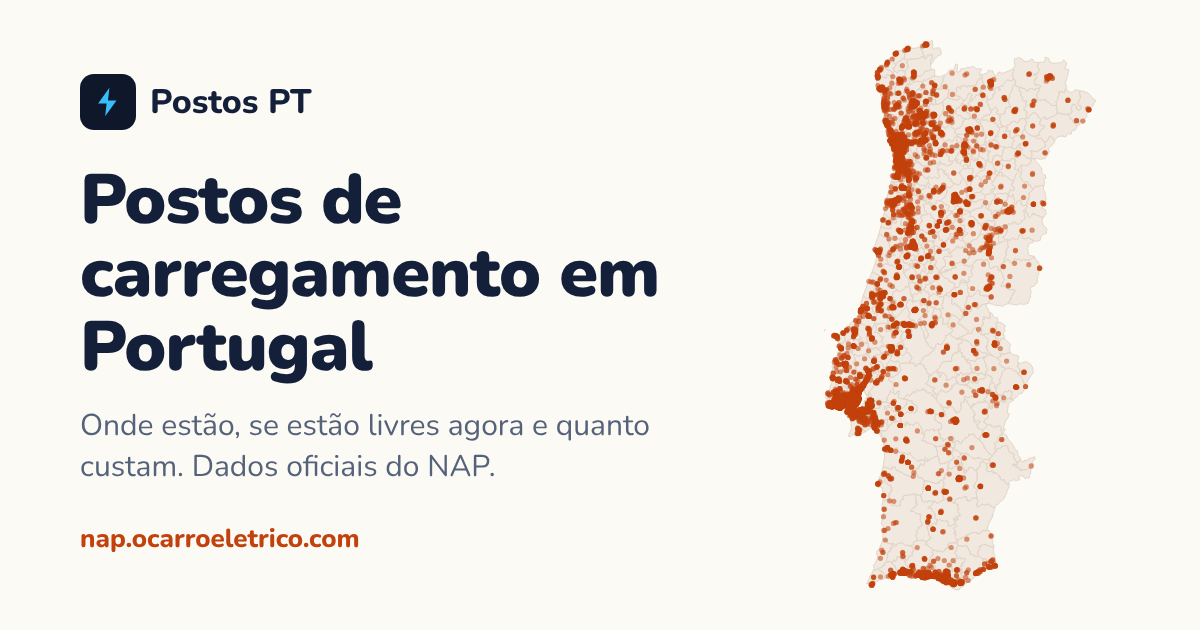
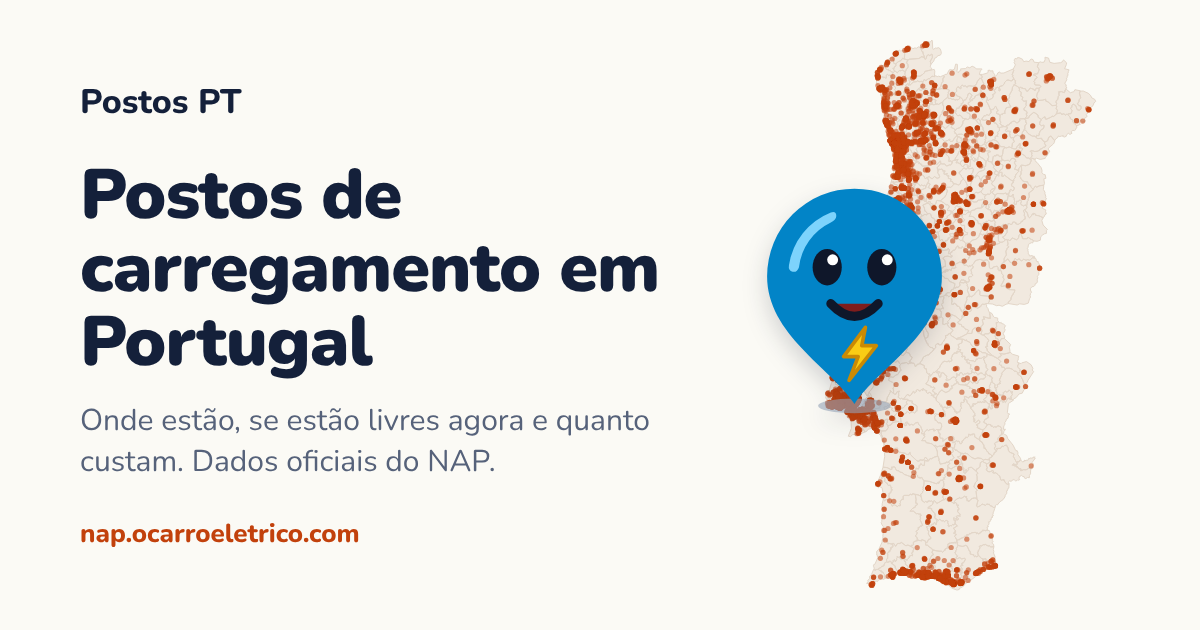
Mascote nova: um pino de mapa com cara, como os outros sites do grupo (#110)
O raio num quadrado passa a ser um pino de mapa com os olhos, o sorriso e o
raio das outras mascotes (a ficha do ohmigo, o livro da Voltaria, o carro
repórter do ocarroeletrico.com). É o favicon e o logótipo do cabeçalho; no
og.png aparece grande, a espetar Lisboa no mapa. make_og_image.py passa a
desenhar também o favicon.ico (16/32/48) e o apple-touch-icon.png.

Claude-Session: https://claude.ai/code/session_01Mo9tqL8ukWPyZY6WR6T8DR

diff --git a/site/operadores.html b/site/operadores.html
@@ -25,7 +25,7 @@
 <meta property="og:url" content="https://nap.ocarroeletrico.com/operadores.html">
 <meta property="og:locale" content="pt_PT">
 <meta property="og:locale:alternate" content="en_GB">
-<meta property="og:image" content="https://nap.ocarroeletrico.com/og.png?v=c3cc181729">
+<meta property="og:image" content="https://nap.ocarroeletrico.com/og.png?v=7980f68541">
 <meta property="og:image:type" content="image/png">
 <meta property="og:image:width" content="1200">
 <meta property="og:image:height" content="630">
@@ -33,7 +33,7 @@
 <meta name="twitter:card" content="summary_large_image">
 <meta name="twitter:title" content="Para operadores (OPC): anomalias nos dados publicados no NAP">
 <meta name="twitter:description" content="Relatório semanal de anomalias nos dados que cada operador de postos de carregamento (OPC) publica no Ponto de Acesso Nacional: potências impossíveis, moradas, tensões e erros reportáveis.">
-<meta name="twitter:image" content="https://nap.ocarroeletrico.com/og.png?v=c3cc181729">
+<meta name="twitter:image" content="https://nap.ocarroeletrico.com/og.png?v=7980f68541">
 <meta name="twitter:image:alt" content="Mapa de Portugal continental com um ponto por posto de carregamento, ao lado do título «Postos de carregamento em Portugal».">
 </head>
 <body>
@@ -41,7 +41,7 @@
 <header class="top">
   <div class="wrap">
     <a class="brand" href="index.html">
-      <svg viewBox="0 0 24 24" fill="none" stroke="currentColor" stroke-width="2.4" stroke-linecap="round" stroke-linejoin="round" aria-hidden="true"><path d="M13 2 5 13h6l-1 9 8-11h-6z"/></svg>
+      <img src="favicon.svg" alt="" width="28" height="33">
       <span>Postos PT</span>
     </a>
     <nav class="nav" aria-label="Principal">

diff --git a/site/index.html b/site/index.html
@@ -25,7 +25,7 @@
 <meta property="og:url" content="https://nap.ocarroeletrico.com/">
 <meta property="og:locale" content="pt_PT">
 <meta property="og:locale:alternate" content="en_GB">
-<meta property="og:image" content="https://nap.ocarroeletrico.com/og.png?v=c3cc181729">
+<meta property="og:image" content="https://nap.ocarroeletrico.com/og.png?v=7980f68541">
 <meta property="og:image:type" content="image/png">
 <meta property="og:image:width" content="1200">
 <meta property="og:image:height" content="630">
@@ -33,7 +33,7 @@
 <meta name="twitter:card" content="summary_large_image">
 <meta name="twitter:title" content="Postos de carregamento em Portugal: onde estão e se estão livres">
 <meta name="twitter:description" content="Procura postos de carregamento de veículos elétricos em Portugal: se estão livres agora, potência, tomadas, formas de pagamento e taxa do operador. Dados oficiais do Ponto de Acesso Nacional.">
-<meta name="twitter:image" content="https://nap.ocarroeletrico.com/og.png?v=c3cc181729">
+<meta name="twitter:image" content="https://nap.ocarroeletrico.com/og.png?v=7980f68541">
 <meta name="twitter:image:alt" content="Mapa de Portugal continental com um ponto por posto de carregamento, ao lado do título «Postos de carregamento em Portugal».">
 </head>
 <body>
@@ -41,7 +41,7 @@
 <header class="top">
   <div class="wrap">
     <a class="brand" href="index.html">
-      <svg viewBox="0 0 24 24" fill="none" stroke="currentColor" stroke-width="2.4" stroke-linecap="round" stroke-linejoin="round" aria-hidden="true"><path d="M13 2 5 13h6l-1 9 8-11h-6z"/></svg>
+      <img src="favicon.svg" alt="" width="28" height="33">
       <span>Postos PT</span>
     </a>
     <nav class="nav" aria-label="Principal">

diff --git a/site/explorar.html b/site/explorar.html
@@ -26,7 +26,7 @@
 <meta property="og:url" content="https://nap.ocarroeletrico.com/explorar.html">
 <meta property="og:locale" content="pt_PT">
 <meta property="og:locale:alternate" content="en_GB">
-<meta property="og:image" content="https://nap.ocarroeletrico.com/og.png?v=c3cc181729">
+<meta property="og:image" content="https://nap.ocarroeletrico.com/og.png?v=7980f68541">
 <meta property="og:image:type" content="image/png">
 <meta property="og:image:width" content="1200">
 <meta property="og:image:height" content="630">
@@ -34,7 +34,7 @@
 <meta name="twitter:card" content="summary_large_image">
 <meta name="twitter:title" content="Explorar a rede de carregamento em Portugal">
 <meta name="twitter:description" content="Filtra a rede pública de carregamento de veículos elétricos em Portugal por operador, concelho, potência, ficha, estado e pagamento, e vê a ocupação ao vivo e a evolução ao longo do tempo.">
-<meta name="twitter:image" content="https://nap.ocarroeletrico.com/og.png?v=c3cc181729">
+<meta name="twitter:image" content="https://nap.ocarroeletrico.com/og.png?v=7980f68541">
 <meta name="twitter:image:alt" content="Mapa de Portugal continental com um ponto por posto de carregamento, ao lado do título «Postos de carregamento em Portugal».">
 </head>
 <body>
@@ -42,7 +42,7 @@
 <header class="top">
   <div class="wrap">
     <a class="brand" href="index.html">
-      <svg viewBox="0 0 24 24" fill="none" stroke="currentColor" stroke-width="2.4" stroke-linecap="round" stroke-linejoin="round" aria-hidden="true"><path d="M13 2 5 13h6l-1 9 8-11h-6z"/></svg>
+      <img src="favicon.svg" alt="" width="28" height="33">
       <span>Postos PT</span>
     </a>
     <nav class="nav" aria-label="Principal">

diff --git a/site/rede.html b/site/rede.html
@@ -25,7 +25,7 @@
 <meta property="og:url" content="https://nap.ocarroeletrico.com/rede.html">
 <meta property="og:locale" content="pt_PT">
 <meta property="og:locale:alternate" content="en_GB">
-<meta property="og:image" content="https://nap.ocarroeletrico.com/og.png?v=c3cc181729">
+<meta property="og:image" content="https://nap.ocarroeletrico.com/og.png?v=7980f68541">
 <meta property="og:image:type" content="image/png">
 <meta property="og:image:width" content="1200">
 <meta property="og:image:height" content="630">
@@ -33,7 +33,7 @@
 <meta name="twitter:card" content="summary_large_image">
 <meta name="twitter:title" content="A rede de carregamento em Portugal, em números">
 <meta name="twitter:description" content="Estatísticas da rede pública de carregamento de veículos elétricos em Portugal: locais, tomadas, operadores, potência, ocupação, fiabilidade e o que mudou nas últimas 24 horas.">
-<meta name="twitter:image" content="https://nap.ocarroeletrico.com/og.png?v=c3cc181729">
+<meta name="twitter:image" content="https://nap.ocarroeletrico.com/og.png?v=7980f68541">
 <meta name="twitter:image:alt" content="Mapa de Portugal continental com um ponto por posto de carregamento, ao lado do título «Postos de carregamento em Portugal».">
 </head>
 <body>
@@ -41,7 +41,7 @@
 <header class="top">
   <div class="wrap">
     <a class="brand" href="index.html">
-      <svg viewBox="0 0 24 24" fill="none" stroke="currentColor" stroke-width="2.4" stroke-linecap="round" stroke-linejoin="round" aria-hidden="true"><path d="M13 2 5 13h6l-1 9 8-11h-6z"/></svg>
+      <img src="favicon.svg" alt="" width="28" height="33">
       <span>Postos PT</span>
     </a>
     <nav class="nav" aria-label="Principal">

diff --git a/assets/site/app.css b/assets/site/app.css
@@ -72,7 +72,7 @@ html[lang="pt"] [data-lang="en"], html[lang="en"] [data-lang="pt"] { display: no
 .top { position: sticky; top: 0; z-index: 30; background: var(--bg); border-bottom: 1px solid var(--line); }
 .top .wrap { display: flex; align-items: center; gap: 12px; min-height: 56px; flex-wrap: wrap; padding-block: 6px; }
 .brand { font-weight: 900; font-size: 1.1rem; color: var(--fg); text-decoration: none; margin-right: auto; display: flex; align-items: center; gap: 8px; }
-.brand svg { width: 26px; height: 26px; color: var(--ink); }
+.brand img { width: 28px; height: 33px; display: block; }
 .nav { display: flex; gap: 4px; order: 3; width: 100%; overflow-x: auto; }
 .nav a { padding: 8px 12px; border-radius: 999px; color: var(--fg); text-decoration: none; font-weight: 700; white-space: nowrap; min-height: 44px; display: inline-flex; align-items: center; }
 .nav a[aria-current="page"] { background: var(--fg); color: var(--bg); }

diff --git a/site/app.css b/site/app.css
@@ -72,7 +72,7 @@ html[lang="pt"] [data-lang="en"], html[lang="en"] [data-lang="pt"] { display: no
 .top { position: sticky; top: 0; z-index: 30; background: var(--bg); border-bottom: 1px solid var(--line); }
 .top .wrap { display: flex; align-items: center; gap: 12px; min-height: 56px; flex-wrap: wrap; padding-block: 6px; }
 .brand { font-weight: 900; font-size: 1.1rem; color: var(--fg); text-decoration: none; margin-right: auto; display: flex; align-items: center; gap: 8px; }
-.brand svg { width: 26px; height: 26px; color: var(--ink); }
+.brand img { width: 28px; height: 33px; display: block; }
 .nav { display: flex; gap: 4px; order: 3; width: 100%; overflow-x: auto; }
 .nav a { padding: 8px 12px; border-radius: 999px; color: var(--fg); text-decoration: none; font-weight: 700; white-space: nowrap; min-height: 44px; display: inline-flex; align-items: center; }
 .nav a[aria-current="page"] { background: var(--fg); color: var(--bg); }

diff --git a/assets/site/_header.html b/assets/site/_header.html
@@ -2,7 +2,7 @@
 <header class="top">
   <div class="wrap">
     <a class="brand" href="index.html">
-      <svg viewBox="0 0 24 24" fill="none" stroke="currentColor" stroke-width="2.4" stroke-linecap="round" stroke-linejoin="round" aria-hidden="true"><path d="M13 2 5 13h6l-1 9 8-11h-6z"/></svg>
+      <img src="favicon.svg" alt="" width="28" height="33">
       <span>Postos PT</span>
     </a>
     <nav class="nav" aria-label="Principal">

diff --git a/scripts/make_og_image.py b/scripts/make_og_image.py
@@ -1,6 +1,12 @@
-"""Draw the link-preview image (assets/og.png, 1200x630) from the committed site data.
+"""Draw the link-preview image (assets/og.png, 1200x630) from the committed site data,
+and the raster icons (assets/favicon.ico, assets/apple-touch-icon.png) from the mascot.
 
     python3 scripts/make_og_image.py [--chromium PATH]
+
+The mascot is assets/favicon.svg: a map pin with a face and the group's
+lightning bolt, like the other sites' (ohmigo's plug, Voltaria's book, the
+reporter car of ocarroeletrico.com). The header shows it as is; browsers that
+can't use an SVG favicon, and iPhones' home screens, get the PNG/ICO drawn here.
 
 X, WhatsApp, Facebook and LinkedIn show this image when someone shares a page
 of the site (the og:image/twitter:image tags that build_site.py writes). It is
@@ -14,6 +20,7 @@ import argparse
 import json
 import os
 import shutil
+import struct
 import subprocess
 import sys
 import tempfile
@@ -24,6 +31,7 @@ W, H = 1200, 630
 # The map's box, on the right of the card. Mainland Portugal only: the islands
 # would shrink it to nothing at this size.
 MAP = (760, 40, 400, 550)  # x, y, w, h
+MASCOT_H = 230
 
 
 def project(lon_lat, bounds, box):
@@ -46,14 +54,20 @@ def svg(outline, sites):
                    for x, y in (pr(s['lon'], s['lat']) for s in sites
                                 if s.get('region') == 'mainland' and s.get('lat') is not None
                                 and s.get('status') not in ('planned', 'removed')))
-    return (f'<svg width="{W}" height="{H}" viewBox="0 0 {W} {H}" style="position:absolute;inset:0">'
+    # The mascot is a map pin: its tip marks Lisbon. In the SVG's viewBox (24 8 212 252) the tip
+    # is at (130, 248), so at MASCOT_H px tall it sits 106/212 of the width in and 240/252 down.
+    lx, ly = pr(-9.14, 38.72)
+    mw = MASCOT_H * 212 / 252
+    pin = (f'<img src="{(ROOT / "assets/favicon.svg").as_uri()}" alt="" style="position:absolute;'
+           f'left:{lx - mw * 106 / 212:.0f}px;top:{ly - MASCOT_H * 240 / 252:.0f}px;height:{MASCOT_H}px;'
+           f'z-index:1;filter:drop-shadow(0 10px 12px rgba(15,23,42,.18))">')
+    return pin + (f'<svg width="{W}" height="{H}" viewBox="0 0 {W} {H}" style="position:absolute;inset:0">'
             f'<path d="{paths}" fill="#f1e9df" stroke="#e3d6c8" stroke-width="1"/>'
             f'<g fill="#c2410c" fill-opacity=".55">{dots}</g></svg>')
 
 
 def page(outline, sites):
     font = (ROOT / 'assets/site/fonts/nunito-latin.woff2').as_uri()
-    bolt = '<path d="M13 2 5 13h6l-1 9 8-11h-6z"/>'
     return f"""<!doctype html><meta charset="utf-8"><style>
 @font-face {{ font-family: Nunito; src: url("{font}") format("woff2"); font-weight: 200 1000; }}
 html, body {{ margin: 0; width: {W}px; height: {H}px; overflow: hidden; background: #fbfaf5; }}
@@ -61,18 +75,55 @@ body {{ position: relative; font-family: Nunito, sans-serif; color: #14203a; }}
 .txt {{ position: absolute; left: 80px; top: 0; bottom: 0; width: 640px; display: flex;
         flex-direction: column; justify-content: center; }}
 .brand {{ display: flex; align-items: center; gap: 14px; font-weight: 800; font-size: 34px; }}
-.brand span.tile {{ width: 56px; height: 56px; border-radius: 14px; background: #0f172a;
-                    display: grid; place-items: center; }}
 h1 {{ font-size: 70px; line-height: 1.05; font-weight: 900; margin: 34px 0 22px; letter-spacing: -1px; }}
 p {{ font-size: 30px; line-height: 1.35; color: #56627a; margin: 0; }}
 .url {{ margin-top: 34px; font-size: 26px; font-weight: 800; color: #c2410c; }}
 </style><body>{svg(outline, sites)}
 <div class="txt">
-  <div class="brand"><span class="tile"><svg width="34" height="34" viewBox="0 0 24 24" fill="#38bdf8">{bolt}</svg></span>Postos PT</div>
+  <div class="brand">Postos PT</div>
   <h1>Postos de carregamento em Portugal</h1>
   <p>Onde estão, se estão livres agora e quanto custam. Dados oficiais do NAP.</p>
   <div class="url">nap.ocarroeletrico.com</div>
 </div></body>"""
+
+
+def shot(chromium, html, size, out, transparent):
+    """Screenshot an HTML string at size x size."""
+    with tempfile.TemporaryDirectory() as tmp:
+        src = Path(tmp) / 'p.html'
+        src.write_text(html, encoding='utf-8')
+        args = [chromium, '--headless', '--no-sandbox', '--disable-gpu', '--hide-scrollbars',
+                f'--window-size={size},{size}', f'--screenshot={out}', src.as_uri()]
+        if transparent:
+            args.insert(2, '--default-background-color=00000000')
+        subprocess.run(args, check=True, capture_output=True)
+
+
+def icon_html(size, share, background):
+    """The mascot centred in a square, filling `share` of its height."""
+    svg = (ROOT / 'assets/favicon.svg').as_uri()
+    return (f'<!doctype html><body style="margin:0;width:{size}px;height:{size}px;display:grid;'
+            f'place-items:center;background:{background}"><img src="{svg}" style="height:{size * share:.0f}px">')
+
+
+def icons(chromium):
+    """favicon.ico (16, 32 and 48 px, transparent) and apple-touch-icon.png (180 px on the page's
+    background, with room around: iOS rounds the corners)."""
+    shot(chromium, icon_html(180, .78, '#fbfaf5'), 180, ROOT / 'assets/apple-touch-icon.png', False)
+    pngs = []
+    with tempfile.TemporaryDirectory() as tmp:
+        for s in (16, 32, 48):
+            p = Path(tmp) / f'{s}.png'
+            shot(chromium, icon_html(s, 1, 'transparent'), s, p, True)
+            pngs.append((s, p.read_bytes()))
+    # ICO with PNG entries (every browser since IE Vista reads them): a 6-byte header,
+    # a 16-byte entry per image, then the PNGs.
+    head = struct.pack('<HHH', 0, 1, len(pngs))
+    off, dirs = 6 + 16 * len(pngs), b''
+    for s, data in pngs:
+        dirs += struct.pack('<BBBBHHII', s, s, 0, 0, 1, 32, len(data), off)
+        off += len(data)
+    (ROOT / 'assets/favicon.ico').write_bytes(head + dirs + b''.join(d for _, d in pngs))
 
 
 def main():
@@ -88,7 +139,8 @@ def main():
         subprocess.run([a.chromium, '--headless', '--no-sandbox', '--disable-gpu', '--hide-scrollbars',
                         f'--window-size={W},{H}', f'--screenshot={a.out}', src.as_uri()],
                        check=True, capture_output=True)
-    print('escrito', a.out, file=sys.stderr)
+    icons(a.chromium)
+    print('escrito', a.out, 'favicon.ico, apple-touch-icon.png', file=sys.stderr)
 
 
 if __name__ == '__main__':

diff --git a/AGENTS.md b/AGENTS.md
@@ -26,7 +26,7 @@ validated by `scripts/validate_site.py` + `scripts/pipeline_guard.py`. Don't ove
   `operadores.html`, the `_head/_header/_footer.html` partials, `app.css`,
   `boot.js`, `common.js`, `find.js`, `rede.js`, `operadores.js`, `fonts/Nunito`),
   `privacidade.html`, `404.html`, `llms.txt`, `pt_outline.json` (PT outline for
-  the map), `pt_basemap.json` (OSM places + main roads for the map; refresh by hand with `scripts/make_pt_basemap.py`, copied to `site/data/basemap.json`), `og.png` (the link-preview image, mainland map with a dot per site; redraw by hand with `scripts/make_og_image.py`, which needs a Chromium; `build_site.social_tags` writes the og:/twitter: tags of each page from its `<title>`, description and canonical, with a hash of the image in its URL so X re-fetches it when it changes), `schemas/*.xsd` (DATEX II 3.3 © CEN; ver `assets/schemas/README.md`)
+  the map), `pt_basemap.json` (OSM places + main roads for the map; refresh by hand with `scripts/make_pt_basemap.py`, copied to `site/data/basemap.json`), `favicon.svg` (the mascot: a map pin with a face and the lightning bolt of the group's other mascots; also the header's logo), `og.png` (the link-preview image, mainland map with a dot per site and the mascot pinning Lisbon; redraw it, `favicon.ico` and `apple-touch-icon.png` by hand with `scripts/make_og_image.py`, which needs a Chromium; `build_site.social_tags` writes the og:/twitter: tags of each page from its `<title>`, description and canonical, with a hash of the image in its URL so X re-fetches it when it changes), `schemas/*.xsd` (DATEX II 3.3 © CEN; ver `assets/schemas/README.md`)
 - `references/` — docs for the SKILL.md (data sources, gotchas)
 - `Agents/` — system prompts dos agentes automáticos (um `.md` por agente; ver
   `Agents/AGENTS.md`). Atual: `Agents/anomalias.md` (anomalias dos dados
